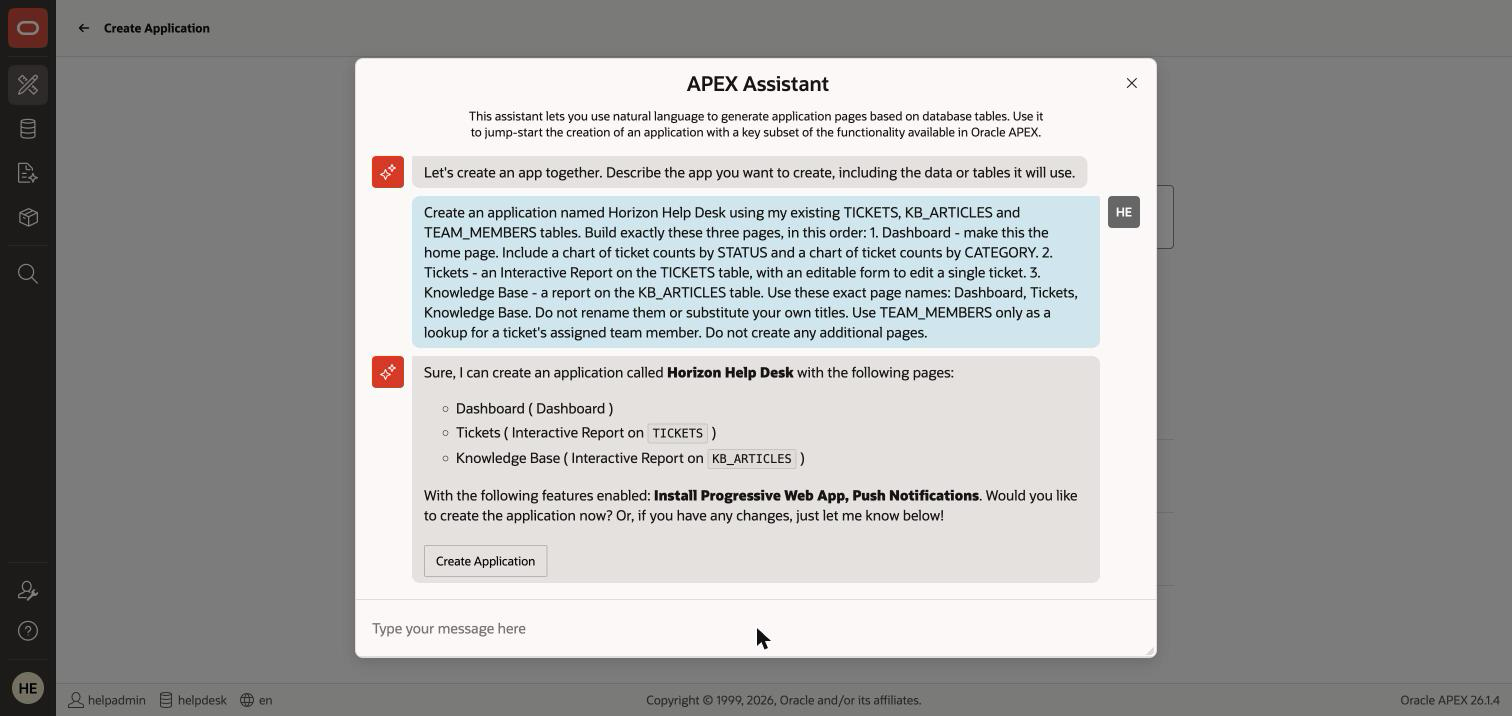
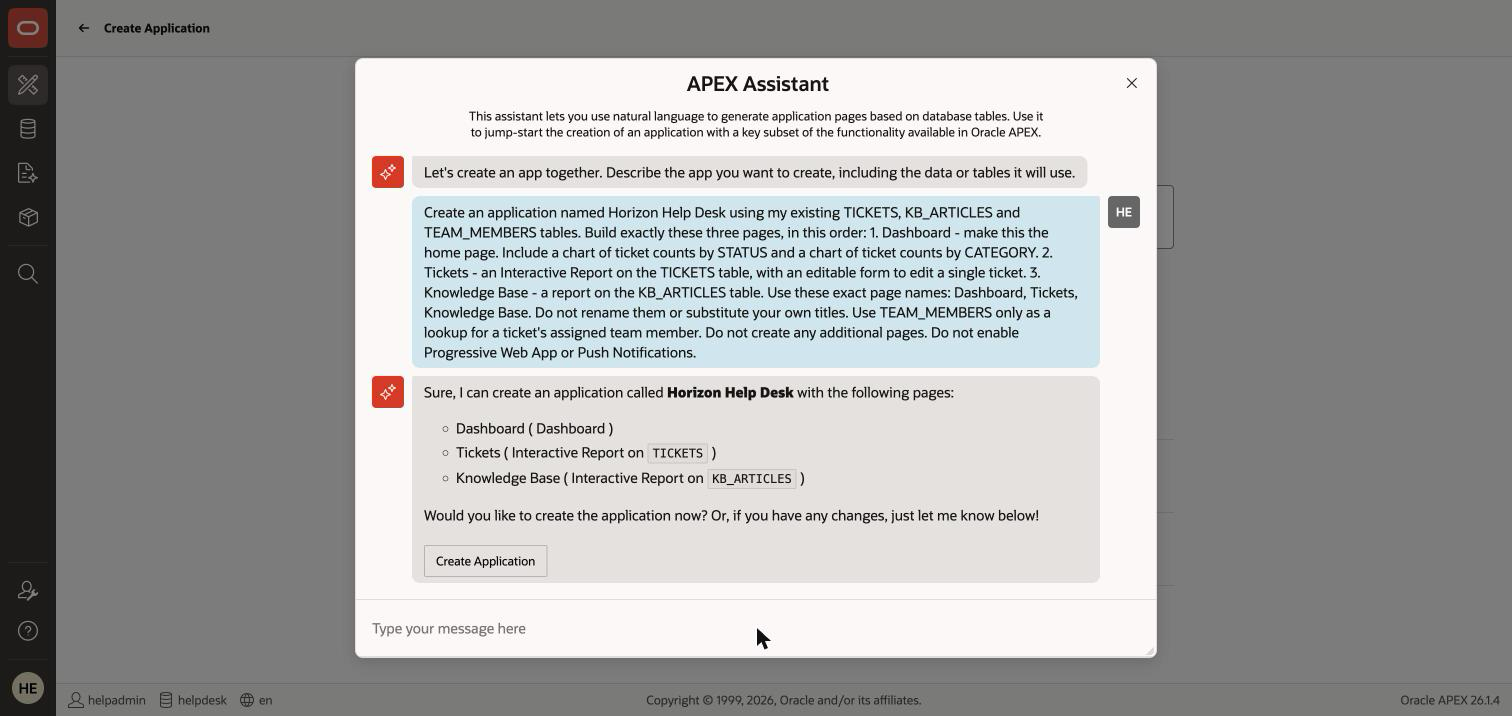
Lab 3: also pin PWA and Push Notifications off in the prompt
Second clause, A/B tested the same way in a fresh Assistant chat:

  Do not enable Progressive Web App or Push Notifications.

Without it the blueprint ends "With the following features enabled: Install
Progressive Web App, Push Notifications". With it that line is absent entirely
and no features are enabled.

This kills the App NNN Push Notifications Credentials debris at the point it
would be created, rather than relying on the reader to find it in Lab 8's
cleanup task - which is still there as a backstop for anyone who drops the
clause deliberately.

app-blueprint.png re-captured so the screenshot matches the final prompt.

Claude-Session: https://claude.ai/code/session_01Roi77wP42pEGuuHzavMxaT

Changed region(s): [[0.2487, 0.4609, 0.746, 0.7374]]

diff --git a/ai-helpdesk-agent/3-generate-app/3-generate-app.md b/ai-helpdesk-agent/3-generate-app/3-generate-app.md
@@ -39,7 +39,7 @@ This lab assumes you have:
     Use these exact page names: Dashboard, Tickets, Knowledge Base. Do not rename them or
     substitute your own titles.
     Use TEAM_MEMBERS only as a lookup for a ticket's assigned team member. Do not create any
-    additional pages.</copy>
+    additional pages. Do not enable Progressive Web App or Push Notifications.</copy>
     ```
 
     > **Why this prompt is so specific.** Generated apps vary between runs, but Labs 4, 5 and 6 build on
@@ -59,10 +59,11 @@ This lab assumes you have:
     > stop it, but generation varies between runs: if the names still drift, rename them in the
     > wizard (Task 2). It matters because Labs 4, 5 and 6 all tell you to open "the **Tickets** page".
 
-    > **It also enables features you did not ask for.** Ours turned on **Install Progressive Web App**
-    > and **Push Notifications**. Harmless for the workshop, but Push Notifications creates a Web
-    > Credential that outlives the application — see Lab 8, Task 3. Turn them off in the wizard if you
-    > would rather not have them.
+    > **Why the prompt refuses two features.** Left to itself the blueprint enables **Install
+    > Progressive Web App** and **Push Notifications** — neither was asked for, and Push Notifications
+    > creates a Web Credential that outlives the application (see Lab 8, Task 3). The final line of the
+    > prompt suppresses both; with it, the blueprint lists no features at all. If you *want* them, drop
+    > that line and turn them on deliberately.
 
     > **That button does not create anything yet.** It hands off to the Create Application wizard, which is where the blueprint becomes editable — page names, page types, charts, features and authentication. The chat summary lists pages only; the wizard is where you can actually inspect and change them. Task 2 happens there.
 

diff --git a/tasks/todo.md b/tasks/todo.md
@@ -700,7 +700,11 @@ and each run used a **fresh** Assistant chat so there was no conversational carr
 Page types and source tables were correct in both runs; only the names drifted. `app-blueprint.png` was
 re-captured from the corrected run so the image matches the shipped prompt.
 
-**Still unfixed by the prompt:** `Install Progressive Web App` and `Push Notifications` are enabled by
-the blueprint without being asked for. That is the origin of the `App NNN Push Notifications Credentials`
-debris found during teardown. Documented in Lab 3 with a pointer to Lab 8 Task 3, and left as a reader
-choice rather than another prompt clause.
+**Second clause, also A/B tested** (Rick asked for it to be pinned rather than left to the reader):
+
+> `Do not enable Progressive Web App or Push Notifications.`
+
+Without it the blueprint ends with *"With the following features enabled: Install Progressive Web App,
+Push Notifications"*. With it that line is **absent entirely** — no features are enabled. This removes the
+source of the `App NNN Push Notifications Credentials` debris at generation time rather than cleaning it
+up afterwards. `app-blueprint.png` re-captured a third time so the image matches the final prompt.
